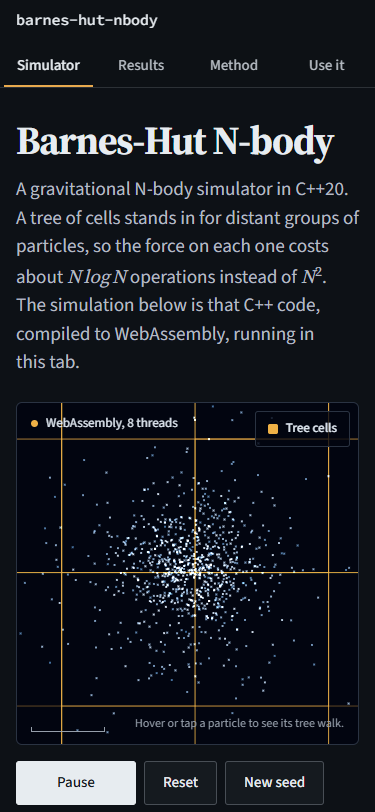
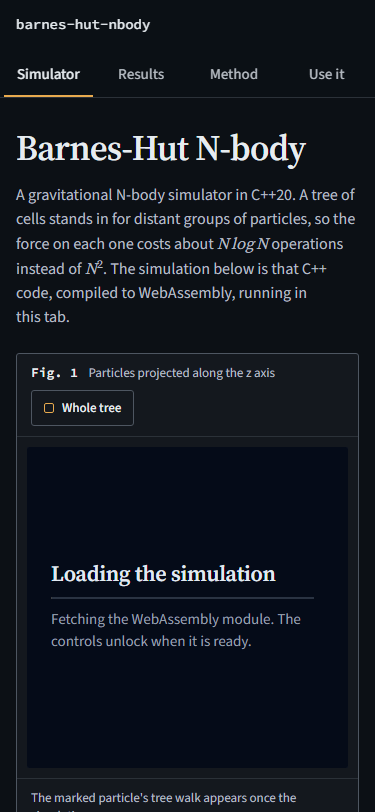
docs: update the page screenshots
Retake the six screenshots of the lab-notebook page and bring the
measured page figures in the README up to date: 23 KiB of own
JavaScript and a largest contentful paint of 0.6 s.

diff --git a/README.md b/README.md
@@ -121,8 +121,8 @@ at http://127.0.0.1:8000/ with them (the batch file also opens the page, and
 needs the Wasm builds above in place), and
 `--no-isolation` leaves them out, which shows the page fall back to the
 single-threaded build with a banner saying so. In headless Chrome on the
-development machine the page loads in 256 ms to its largest paint on the
-single-threaded build, with no layout shift, and its own JavaScript is 15 KiB
+development machine the page loads in 0.6 s to its largest paint on the
+single-threaded build, with no layout shift, and its own JavaScript is 23 KiB
 compressed. `web/test/page_budget.mjs` measures those figures and the time of
 one viewport draw at 8192 particles, prints each beside its budget and exits 1
 when any is over:
